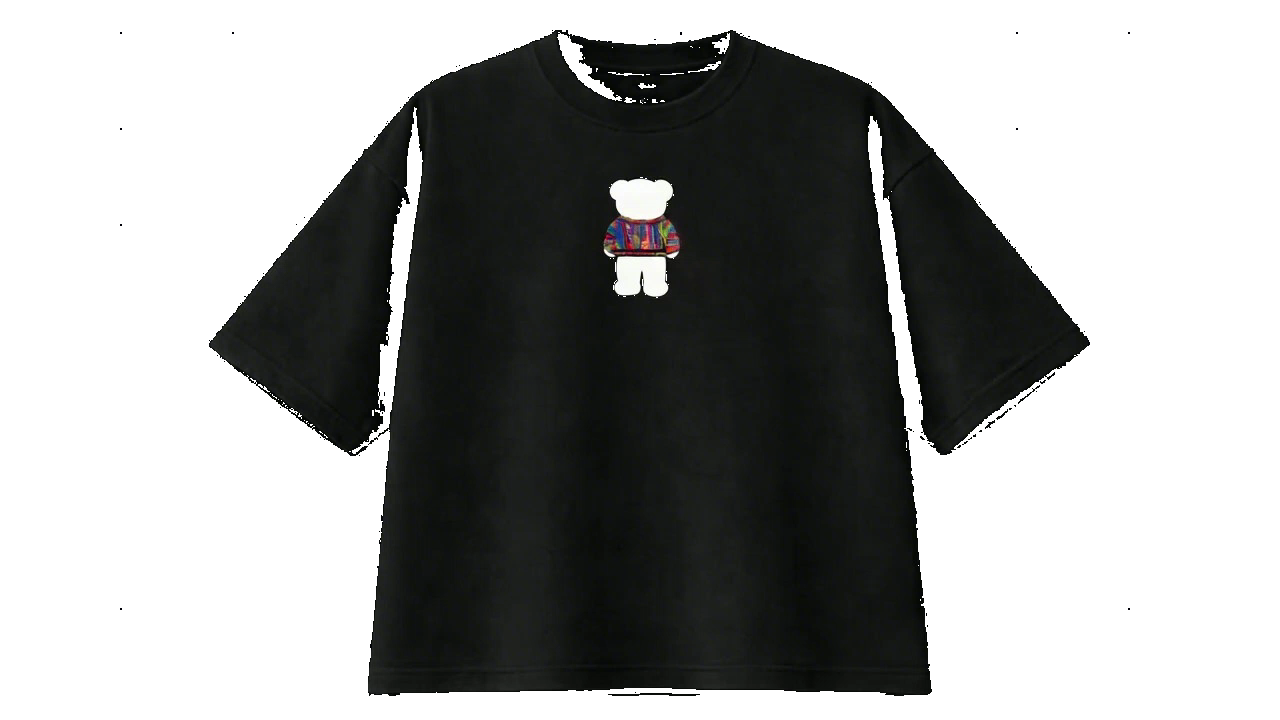
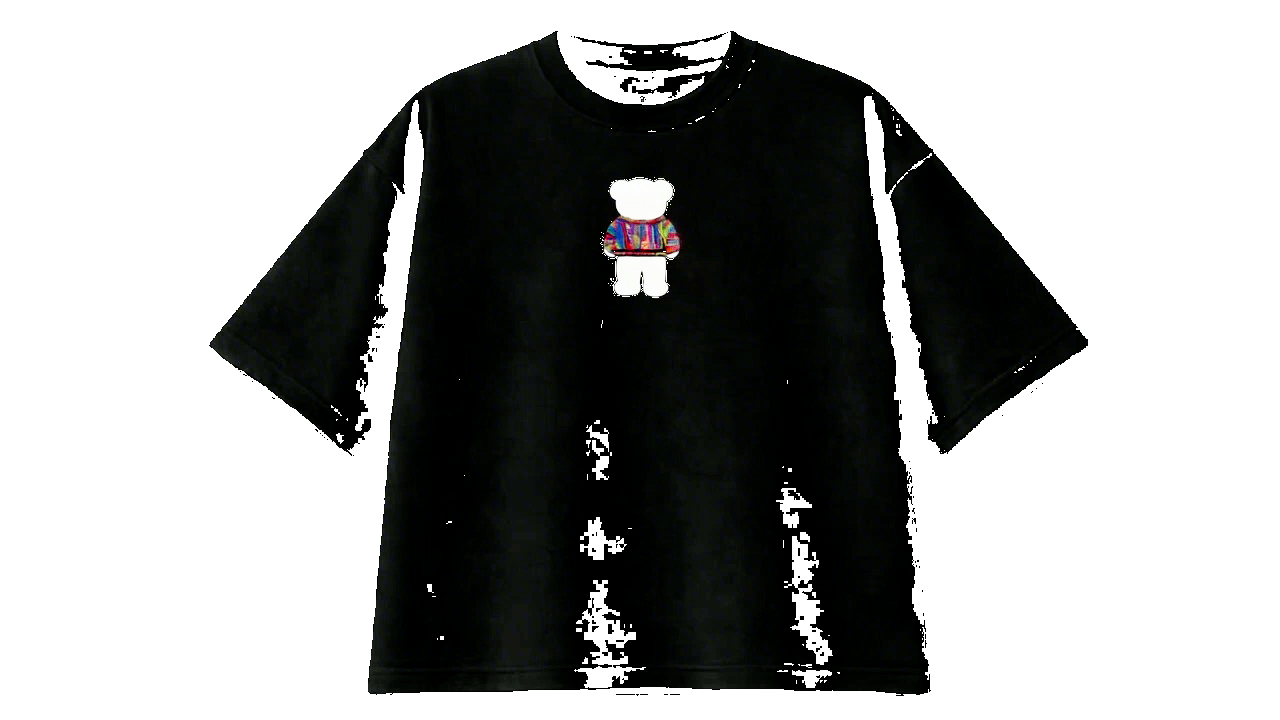
Eliminate white fringe on garment edges
Higher discard threshold (0.05) + edge darkening mix that forces
near-black border pixels to solid black. Poster PNGs re-extracted
with matching colorkey + curves filter.

diff --git a/src/components/VideoGarment.jsx b/src/components/VideoGarment.jsx
@@ -16,8 +16,12 @@ const fragShader = `
   void main() {
     vec4 color = texture2D(videoTexture, vUv);
     float maxC = max(color.r, max(color.g, color.b));
-    float alpha = step(0.018, maxC);
-    gl_FragColor = vec4(color.rgb, alpha);
+    // Pure black background → fully transparent
+    if (maxC < 0.05) discard;
+    // Near-black edge pixels → force to solid black (kills white fringe)
+    float t = smoothstep(0.05, 0.18, maxC);
+    vec3 rgb = mix(vec3(0.0), color.rgb, t);
+    gl_FragColor = vec4(rgb, 1.0);
   }
 `
 
